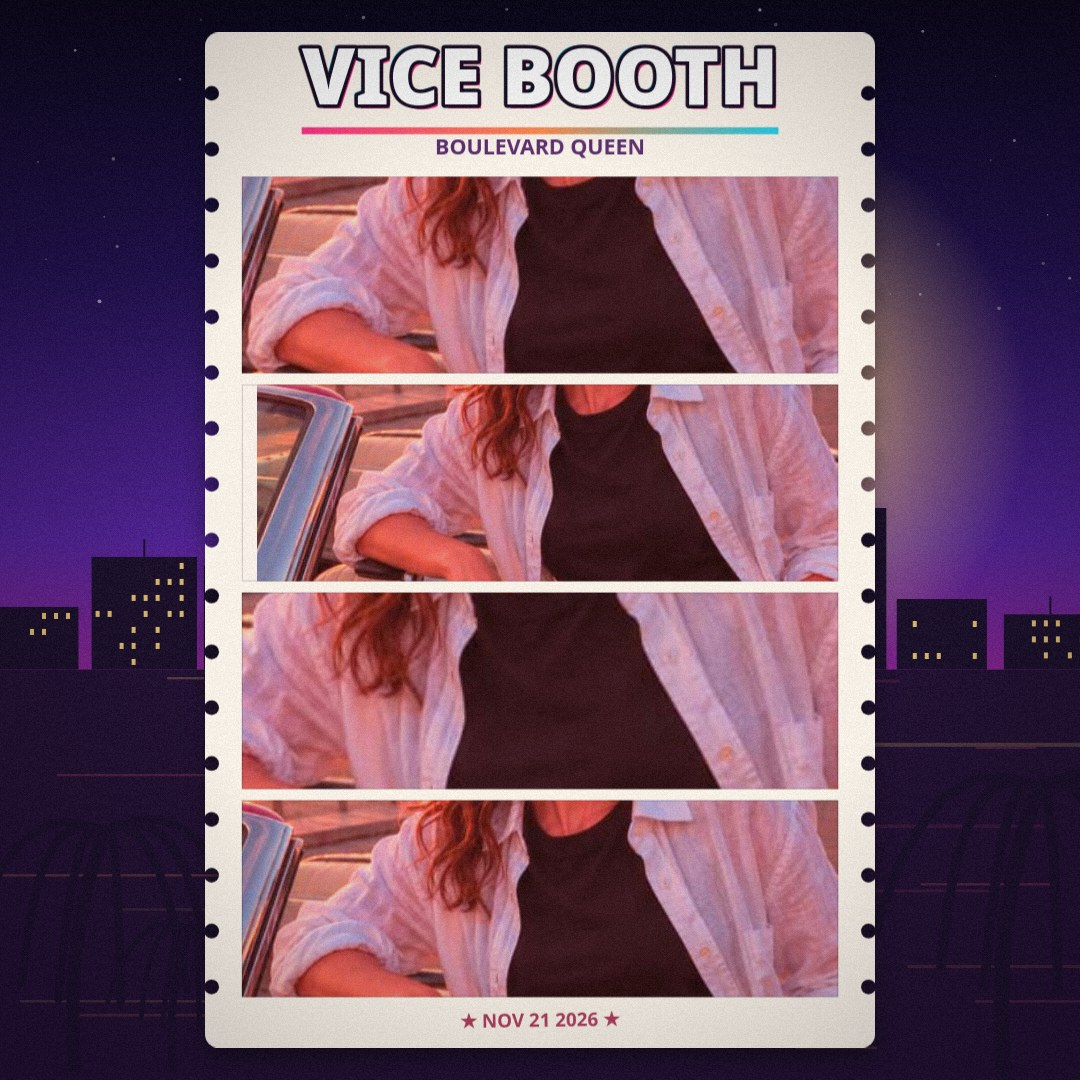
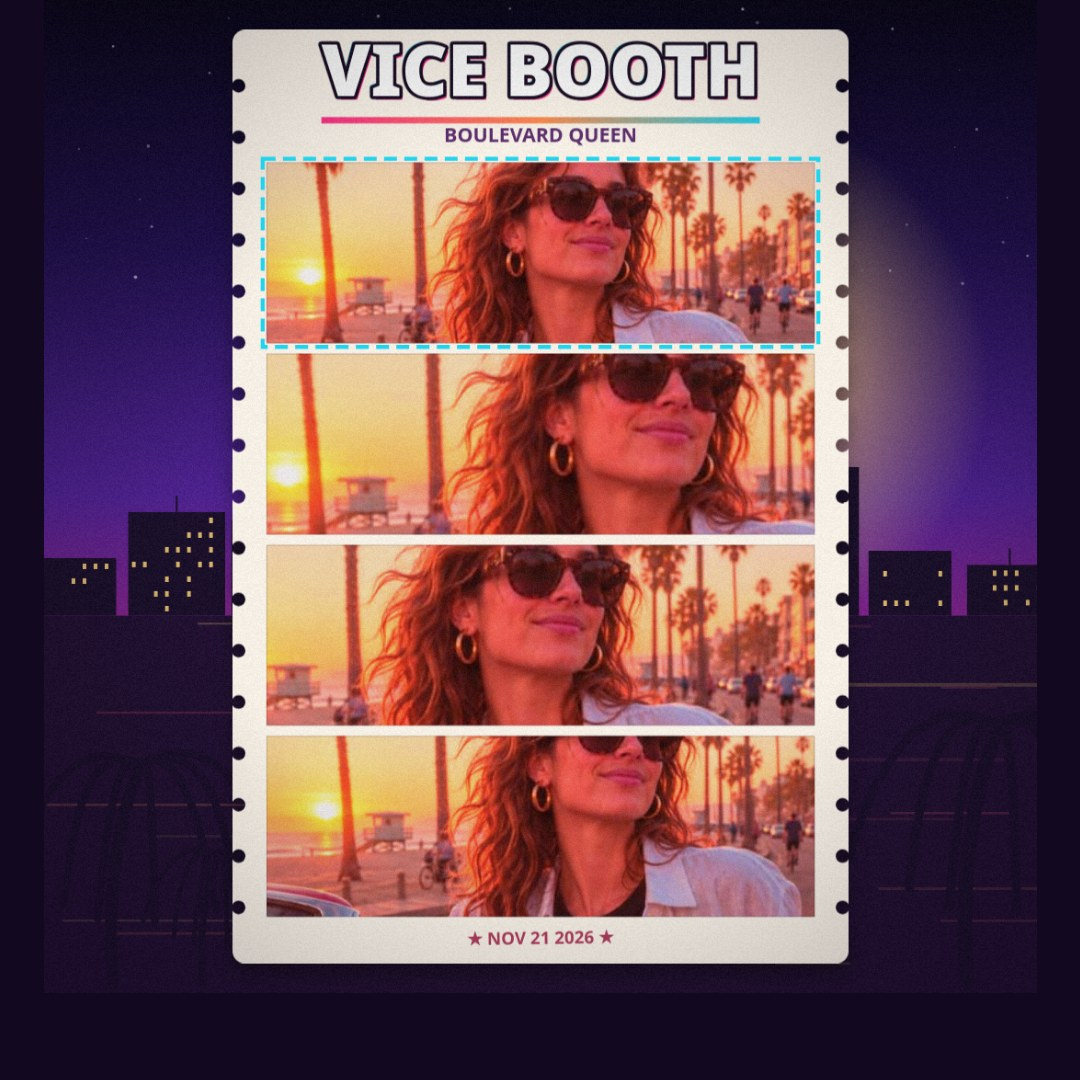
Fix one-photo presets: top-anchor crops so the subject's face is visible
The strip frames are wide panoramic slices, so the old dy ~ 0 presets
sampled the middle band of the photo while the faces sit at the top of
both sample photos (pier y 0.02-0.35, boulevard y 0.10-0.30) - every
cover frame was headless. New defaults anchor at the top (dy ~= zoom):
frame 1 full top-anchored subject incl. face, frame 2 closer face crop,
frames 3-4 varied zoom/pan on the upper body/face area. Verified
numerically (visible y-bands incl. the face on all three export sizes,
no edge gaps) and visually in re-shot screenshots. Also raised the
drag dy clamp from +-0.6 to +-1.6 so the top-anchored framing stays
reachable by dragging; re-shot all 4 screenshots through the app.

diff --git a/app/src/strip.js b/app/src/strip.js
@@ -42,12 +42,25 @@ export const GRADES = {
   },
 };
 
-/** Default per-frame crops when one photo fills all four frames. */
+/**
+ * Default per-frame crops when one photo fills all four frames.
+ *
+ * Frames are wide panoramic slices (frame height is ~1/3 of frame width),
+ * so dy ~ 0 samples the middle band of the photo — and the subject's face
+ * sits at the TOP of the sample photos (pier face y ~0.02-0.35, boulevard
+ * face y ~0.10-0.30), which the old dy ~ 0 presets cut off entirely.
+ * dy shifts the photo centre by dy * frame-height; a top-anchored crop
+ * needs dy ~= zoom (the visible band is then y ~0.01-0.37 on the square
+ * pier photo and y ~0.13-0.41 on the portrait boulevard photo, face
+ * visible in every frame on all three export sizes, no edge gaps).
+ * Frame 1 is the full top-anchored subject, frame 2 a closer face crop,
+ * frames 3-4 varied zoom/pan on the upper body / face area.
+ */
 export const ONE_PHOTO_FRAMES = [
-  { zoom: 1.3, dx: 0, dy: -0.02 },
-  { zoom: 1.05, dx: 0.05, dy: 0 },
-  { zoom: 1.7, dx: -0.08, dy: 0.05 },
-  { zoom: 1.2, dx: 0, dy: 0.08 },
+  { zoom: 1.05, dx: 0, dy: 1.05 },
+  { zoom: 1.4, dx: 0.1, dy: 1.4 },
+  { zoom: 1.25, dx: -0.08, dy: 1.25 },
+  { zoom: 1.1, dx: 0.05, dy: 0.88 },
 ];
 
 const TITLE_FONT = '"Arial Black", "Archivo Black", system-ui, sans-serif';

diff --git a/app/src/main.js b/app/src/main.js
@@ -181,7 +181,10 @@ canvas.addEventListener('pointermove', (e) => {
   f.dx += ((e.clientX - dragging.x) * dragging.scaleX) / r.w;
   f.dy += ((e.clientY - dragging.y) * dragging.scaleX) / r.h;
   f.dx = Math.max(-0.6, Math.min(0.6, f.dx));
-  f.dy = Math.max(-0.6, Math.min(0.6, f.dy));
+  // dy up to 1.6: the top-anchored default crops need dy ~= zoom (see
+  // ONE_PHOTO_FRAMES); the old +-0.6 clamp made that framing unreachable
+  // by dragging, so a dragged frame could never get the face back.
+  f.dy = Math.max(-1.6, Math.min(1.6, f.dy));
   dragging.x = e.clientX;
   dragging.y = e.clientY;
   redraw();
